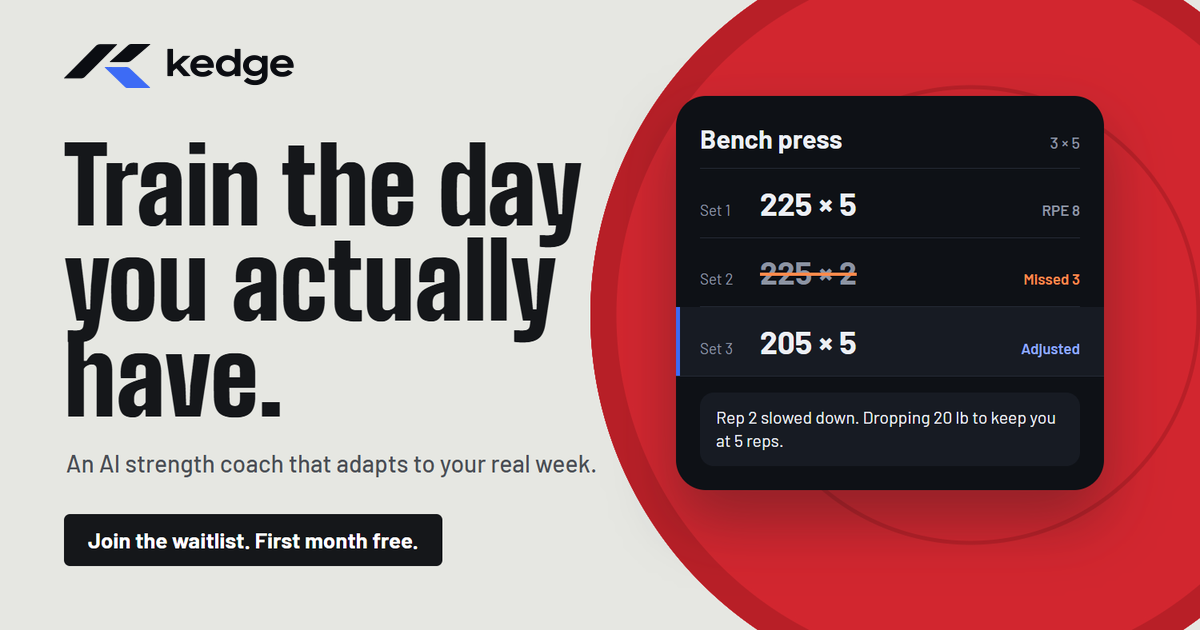
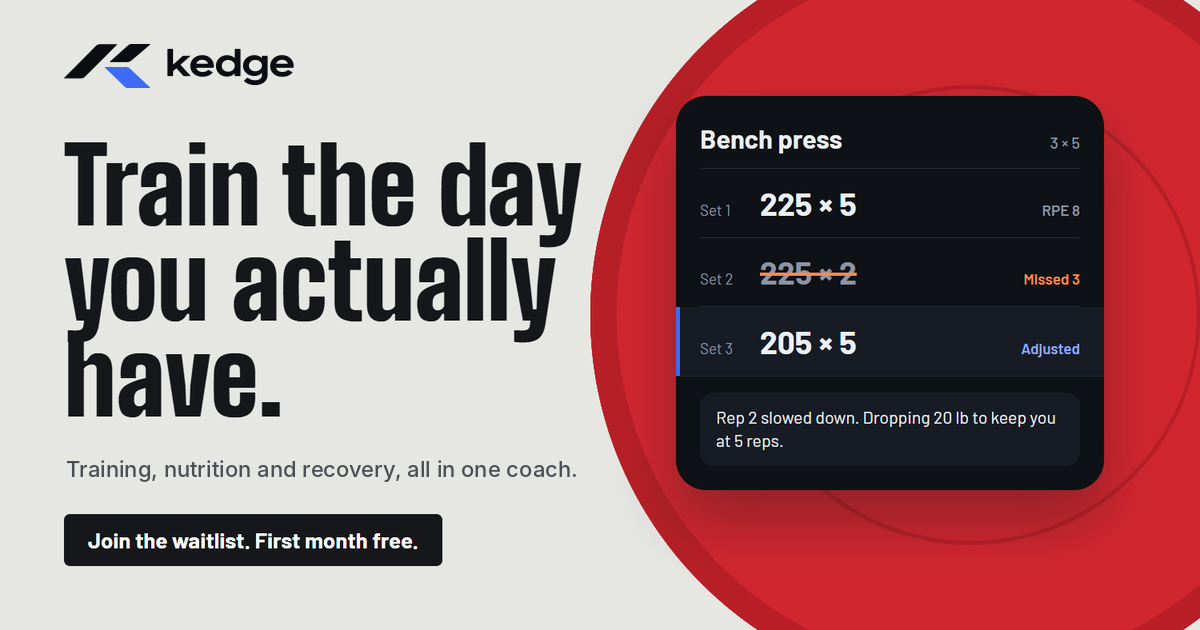
Link preview: drop the AI line for the approved one-coach line
Claude-Session: https://claude.ai/code/session_01EUkb72grH862t5WVJzSN1Z

Changed region(s): [[0.0308, 0.7238, 0.4933, 0.754]]

diff --git a/og/index.html b/og/index.html
@@ -38,7 +38,7 @@ h1 { position: absolute; left: 64px; top: 138px; width: 600px; margin: 0; font: 
     <svg viewBox="0 0 862.4 165.2" data-kedge="lockup" role="img" aria-label="kedge" class="wm" style="display:block;width:271px;height:52px"><path d="M199.4 1.3 L199.0 1.0 L198.5 0.9 L194.5 0.8 L136.3 0.8 L132.6 1.0 L129.4 1.6 L126.1 2.7 L123.6 4.0 L120.5 6.4 L115.6 11.3 L102.9 24.3 L79.5 47.9 L76.5 50.8 L41.9 85.8 L1.1 126.6 L0.2 127.8 L0.0 128.3 L0.1 128.7 L0.5 129.0 L1.1 129.1 L6.6 129.2 L64.0 129.2 L66.9 129.0 L70.1 128.2 L72.3 127.4 L75.0 126.0 L76.9 124.6 L79.0 122.7 L86.6 114.9 L105.9 95.9 L162.1 39.7 L189.8 11.8 L194.5 7.3 L198.9 2.7 L199.4 1.9Z M324.3 0.6 L324.0 0.3 L323.5 0.2 L320.4 0.0 L253.1 0.0 L251.4 0.1 L249.4 0.4 L247.4 1.0 L245.5 1.7 L243.9 2.5 L242.1 3.7 L236.8 8.3 L210.3 32.2 L178.4 60.6 L172.3 66.2 L171.8 67.0 L171.7 67.5 L172.2 67.9 L173.0 68.0 L188.8 68.0 L191.8 68.1 L227.1 68.1 L230.1 68.0 L238.1 68.0 L240.5 67.8 L243.4 67.1 L247.4 65.7 L249.8 64.4 L252.0 62.7 L267.8 49.6 L289.3 31.5 L301.3 21.1 L306.3 17.0 L311.4 12.4 L323.4 2.1 L324.2 1.3Z" fill="#0B0D12"/><path d="M152.8 87.1 L152.8 87.8 L153.7 88.9 L204.5 137.8 L219.4 152.4 L229.2 161.7 L231.6 163.6 L233.1 164.4 L235.1 165.1 L237.1 165.2 L318.5 165.2 L322.3 165.0 L322.9 164.8 L323.3 164.4 L323.3 163.8 L322.9 163.1 L319.8 159.8 L304.1 145.5 L293.9 135.6 L282.7 125.3 L274.4 117.3 L267.6 111.1 L257.8 101.6 L251.1 95.6 L246.3 91.0 L244.3 89.4 L242.6 88.5 L237.3 86.8 L235.6 86.5 L232.4 86.4 L228.5 86.5 L181.0 86.5 L178.0 86.4 L166.9 86.5 L156.9 86.4 L153.6 86.6 L153.1 86.8Z" fill="#3D6BF5"/><path d="M388.8 18.7 L388.4 19.3 L388.3 20.1 L388.3 118.7 L388.4 119.5 L388.7 120.1 L389.4 120.5 L390.4 120.7 L407.6 120.5 L408.3 120.5 L408.9 120.2 L409.2 119.6 L409.4 119.0 L409.5 116.0 L409.5 103.7 L409.6 102.9 L409.8 102.1 L410.3 101.4 L411.1 100.5 L420.2 92.5 L421.1 91.8 L422.0 91.6 L422.8 91.8 L424.0 92.9 L442.9 113.9 L447.9 119.3 L449.0 120.2 L449.8 120.5 L451.0 120.7 L473.6 120.5 L474.4 120.5 L474.9 120.3 L475.1 120.0 L475.1 119.6 L474.3 118.5 L469.2 112.8 L463.0 106.2 L450.7 92.7 L438.8 79.4 L438.2 78.6 L438.0 77.9 L438.3 77.1 L439.3 76.0 L457.9 59.6 L473.5 46.1 L474.2 45.2 L474.3 44.9 L474.2 44.6 L473.9 44.4 L473.4 44.3 L469.2 44.2 L466.8 44.3 L448.2 44.3 L447.3 44.4 L446.5 44.6 L445.5 45.2 L411.8 75.6 L411.0 76.1 L410.5 76.3 L410.2 76.2 L410.0 76.1 L409.7 75.7 L409.6 74.7 L409.5 67.7 L409.5 23.5 L409.4 19.9 L409.3 19.3 L409.0 18.9 L408.6 18.5 L408.0 18.3 L407.2 18.3 L390.4 18.3 L389.5 18.3Z M499.1 45.8 L494.7 48.0 L490.3 50.7 L487.6 52.9 L484.2 56.3 L481.4 59.8 L479.3 63.2 L477.4 67.0 L476.3 69.7 L475.7 71.5 L475.0 75.0 L474.4 79.2 L474.3 81.1 L474.3 84.9 L475.1 91.0 L476.1 94.9 L478.0 99.6 L479.8 103.0 L482.4 106.8 L484.5 109.2 L488.5 112.9 L491.7 115.2 L495.7 117.6 L500.6 119.8 L504.8 121.1 L508.7 122.0 L514.0 122.8 L517.7 123.0 L525.2 122.9 L531.0 122.2 L535.7 121.2 L539.9 119.9 L544.2 118.1 L547.9 116.2 L551.4 113.8 L553.5 112.0 L557.6 108.0 L558.3 107.1 L558.3 106.7 L558.2 106.3 L557.7 105.7 L556.9 105.2 L542.9 97.6 L542.1 97.4 L541.2 97.6 L538.0 99.9 L535.6 101.4 L532.3 103.0 L528.8 104.1 L525.5 104.8 L522.5 105.1 L520.3 105.2 L515.9 104.8 L512.6 104.2 L508.8 102.9 L506.0 101.7 L503.5 100.0 L501.0 97.7 L499.3 95.6 L498.5 94.4 L497.8 92.8 L497.1 91.3 L497.0 90.6 L497.3 89.8 L498.0 89.5 L502.1 89.3 L560.4 89.3 L561.3 89.2 L561.8 89.0 L562.3 88.5 L562.5 87.7 L562.6 82.4 L562.3 77.9 L561.5 73.3 L560.3 69.2 L558.2 64.1 L556.2 60.7 L554.0 57.6 L551.7 54.8 L549.6 52.7 L546.6 50.3 L543.3 48.1 L540.6 46.6 L537.1 45.1 L533.7 43.9 L530.1 43.0 L526.5 42.4 L522.4 42.0 L518.7 41.9 L513.4 42.2 L508.8 42.9 L505.5 43.7 L501.8 44.8Z M497.1 72.9 L497.2 72.1 L498.1 70.4 L499.0 69.0 L500.4 67.2 L502.5 64.9 L504.8 63.2 L508.0 61.4 L510.3 60.6 L512.3 60.0 L516.1 59.3 L517.6 59.3 L521.6 59.4 L525.0 59.9 L528.9 61.2 L530.7 62.0 L532.5 62.9 L533.9 63.9 L535.1 64.9 L536.1 65.9 L537.5 67.4 L538.4 68.7 L539.3 70.3 L540.0 71.8 L540.3 72.8 L540.3 73.3 L540.0 73.7 L539.7 73.9 L539.2 74.1 L533.8 74.2 L517.4 74.2 L514.9 74.1 L508.2 74.2 L499.4 74.2 L498.2 74.1 L497.7 73.9 L497.2 73.5Z M662.1 18.6 L661.5 18.3 L660.8 18.3 L643.1 18.3 L642.0 18.4 L641.5 18.7 L641.2 19.0 L641.0 19.5 L641.0 20.4 L641.0 48.1 L640.8 50.7 L640.7 51.2 L640.4 51.5 L640.0 51.6 L639.4 51.4 L635.5 48.7 L630.9 46.0 L628.3 44.9 L624.8 43.7 L620.9 42.8 L615.8 42.2 L612.9 42.0 L607.3 42.4 L603.0 43.0 L599.5 43.8 L597.2 44.6 L594.4 45.7 L591.2 47.3 L587.8 49.2 L585.2 51.1 L583.3 52.8 L581.4 54.7 L578.8 57.6 L576.6 60.5 L574.8 63.6 L573.3 67.2 L572.0 70.7 L571.2 74.3 L570.5 79.2 L570.4 81.1 L570.5 85.2 L571.0 89.3 L571.9 93.4 L573.2 97.2 L574.8 100.9 L577.1 104.7 L579.3 107.8 L581.9 110.6 L585.0 113.4 L587.2 115.0 L590.1 116.8 L592.4 118.0 L594.6 118.9 L597.8 120.1 L600.6 120.9 L604.0 121.6 L606.9 122.1 L611.1 122.3 L614.4 122.3 L617.4 122.1 L621.8 121.3 L625.1 120.4 L628.6 119.1 L631.6 117.6 L635.6 115.1 L639.3 112.1 L640.1 111.7 L640.4 111.8 L640.7 112.0 L640.9 112.8 L641.0 119.3 L641.4 120.0 L642.0 120.4 L642.6 120.5 L646.2 120.7 L658.7 120.7 L661.4 120.5 L661.9 120.3 L662.3 120.0 L662.6 119.5 L662.7 118.5 L662.7 20.1 L662.6 19.2Z M612.0 60.2 L614.2 59.9 L617.1 59.9 L618.9 60.0 L621.5 60.4 L623.6 60.9 L626.1 61.7 L628.5 62.7 L630.4 63.7 L632.1 64.9 L633.6 66.2 L635.3 67.7 L636.9 69.6 L638.2 71.5 L639.1 73.1 L639.9 75.2 L640.5 76.8 L641.0 79.8 L641.2 81.8 L641.1 83.6 L640.8 85.5 L640.5 87.2 L639.9 88.9 L638.6 91.8 L637.6 93.4 L636.7 94.8 L635.2 96.4 L633.4 98.0 L631.3 99.7 L629.7 100.6 L628.0 101.5 L625.4 102.5 L623.2 103.2 L620.9 103.7 L618.7 104.0 L615.3 104.0 L613.6 103.9 L610.9 103.5 L608.8 103.0 L606.1 102.1 L604.0 101.2 L602.0 100.0 L600.2 98.7 L598.7 97.2 L596.8 95.2 L595.7 93.6 L594.6 91.6 L593.7 89.5 L593.1 87.5 L592.6 85.2 L592.4 83.6 L592.3 81.4 L592.4 79.7 L592.9 77.0 L593.8 74.2 L594.7 72.0 L595.8 70.2 L597.1 68.5 L598.9 66.6 L600.5 65.1 L602.5 63.7 L605.0 62.4 L607.1 61.5 L609.2 60.8Z M763.3 44.3 L762.2 44.2 L753.8 44.2 L751.3 44.3 L745.8 44.2 L744.4 44.3 L743.8 44.7 L743.4 45.5 L743.3 50.9 L743.1 51.6 L742.8 51.8 L742.5 51.8 L741.8 51.6 L738.4 49.0 L734.2 46.4 L730.8 44.8 L727.3 43.6 L723.5 42.8 L717.6 42.1 L713.4 42.0 L708.5 42.4 L704.8 43.0 L700.7 44.1 L697.8 45.1 L693.7 46.9 L690.7 48.5 L686.8 51.2 L683.9 53.7 L681.8 55.8 L679.9 58.2 L677.8 61.1 L675.9 64.8 L674.7 67.6 L673.5 71.0 L672.8 74.6 L672.2 78.8 L672.1 82.1 L672.3 85.1 L672.8 88.7 L673.7 92.4 L674.9 95.8 L676.5 99.3 L678.2 102.1 L680.9 105.6 L683.6 108.5 L685.5 110.3 L689.0 112.9 L691.2 114.3 L694.3 115.8 L697.4 117.1 L700.5 118.1 L703.3 118.8 L707.8 119.6 L712.7 120.1 L716.4 120.1 L721.8 119.5 L724.5 119.0 L727.4 118.2 L729.2 117.6 L731.3 116.7 L734.9 114.9 L737.9 113.0 L741.8 109.9 L742.4 109.6 L742.7 109.6 L743.0 109.8 L743.2 110.6 L743.4 114.9 L743.3 116.8 L743.0 119.7 L742.1 122.8 L741.2 124.9 L739.9 127.0 L737.8 129.3 L735.5 131.3 L732.8 132.9 L730.0 134.2 L728.1 134.8 L725.1 135.5 L722.2 135.9 L717.8 136.2 L714.8 136.1 L708.2 135.3 L703.9 134.2 L701.6 133.4 L699.7 132.6 L697.0 131.2 L694.4 129.6 L690.1 126.7 L689.5 126.4 L689.0 126.4 L688.5 126.5 L687.8 126.9 L685.7 128.6 L676.2 137.5 L675.8 138.2 L675.8 138.9 L676.2 139.6 L677.2 140.6 L680.9 143.6 L685.2 146.4 L689.7 148.6 L695.1 150.8 L699.4 152.1 L705.0 153.3 L710.3 154.0 L714.5 154.3 L722.4 154.1 L725.3 153.9 L729.0 153.3 L733.9 152.2 L739.5 150.4 L744.0 148.5 L748.2 146.1 L750.2 144.7 L752.3 143.0 L754.5 141.0 L755.6 139.8 L757.1 137.9 L759.0 135.3 L760.4 132.9 L761.3 130.8 L762.4 128.0 L763.3 124.7 L763.9 121.4 L764.2 118.7 L764.4 114.9 L764.4 46.4 L764.3 45.6 L764.1 45.0 L763.8 44.6Z M707.2 62.1 L710.9 60.8 L713.1 60.3 L715.0 60.0 L719.9 59.9 L722.0 60.0 L723.8 60.3 L726.2 60.8 L727.9 61.3 L730.1 62.2 L732.2 63.2 L734.3 64.5 L735.7 65.6 L737.2 67.0 L738.6 68.5 L739.9 70.2 L740.9 71.7 L741.7 73.3 L742.5 75.5 L742.9 77.1 L743.2 78.7 L743.2 80.1 L743.2 83.4 L742.9 84.9 L742.3 86.9 L741.7 88.5 L740.8 90.3 L739.9 91.8 L738.9 93.1 L737.5 94.7 L735.9 96.1 L734.1 97.5 L732.0 98.8 L729.3 100.1 L726.9 101.0 L724.1 101.7 L722.1 102.0 L719.2 102.2 L716.3 102.1 L713.5 101.8 L711.6 101.5 L709.0 100.7 L706.3 99.6 L704.4 98.5 L702.7 97.4 L700.7 95.7 L698.9 93.9 L697.5 92.0 L696.3 89.8 L695.3 87.5 L694.6 85.2 L694.3 83.0 L694.2 80.7 L694.4 78.3 L694.9 76.0 L695.6 73.8 L696.6 71.6 L697.7 69.8 L699.2 67.9 L700.9 66.2 L702.6 64.8 L704.9 63.3Z M795.6 47.4 L791.8 49.6 L789.2 51.4 L785.3 54.9 L782.7 57.9 L779.9 61.9 L777.6 66.2 L776.2 69.8 L775.0 74.0 L774.5 77.0 L774.2 78.9 L774.1 83.3 L774.4 87.9 L775.3 92.5 L776.5 96.7 L777.3 98.9 L778.2 100.8 L779.4 103.0 L780.9 105.2 L783.5 108.5 L786.0 111.1 L789.4 114.0 L792.5 116.1 L796.5 118.3 L800.7 120.0 L804.2 121.2 L807.4 121.9 L810.3 122.5 L814.7 122.9 L822.5 123.0 L826.0 122.8 L831.2 122.1 L835.8 121.1 L840.1 119.7 L844.8 117.5 L847.7 115.8 L849.5 114.7 L851.8 113.1 L853.6 111.6 L856.5 108.7 L857.4 107.6 L857.7 106.8 L857.5 106.1 L856.7 105.5 L853.2 103.5 L842.1 97.6 L841.3 97.5 L840.5 97.7 L836.8 100.4 L833.9 102.0 L831.2 103.1 L828.3 104.1 L824.8 104.8 L821.9 105.1 L818.3 105.1 L815.6 104.8 L811.9 104.1 L808.6 103.0 L806.2 102.0 L803.6 100.3 L801.9 99.0 L800.8 97.9 L798.9 95.7 L798.1 94.4 L797.4 93.1 L796.8 91.6 L796.6 90.7 L796.8 89.9 L797.4 89.5 L801.1 89.3 L860.2 89.3 L860.9 89.2 L861.4 89.0 L861.9 88.5 L862.1 87.6 L862.3 85.5 L862.4 82.2 L861.8 76.4 L860.7 71.4 L860.0 69.1 L859.0 66.6 L857.2 62.8 L856.0 60.8 L854.5 58.6 L851.9 55.4 L849.7 53.1 L846.9 50.7 L844.6 49.1 L841.0 47.1 L838.0 45.6 L835.0 44.5 L831.8 43.5 L828.3 42.8 L823.0 42.1 L819.4 41.9 L815.6 42.0 L811.5 42.4 L807.8 43.0 L803.0 44.3 L798.5 45.9Z M796.7 72.9 L796.9 72.1 L797.9 70.4 L798.7 69.0 L800.0 67.4 L801.3 66.0 L802.6 64.7 L805.3 62.8 L808.7 61.1 L811.5 60.2 L814.3 59.6 L818.7 59.3 L822.4 59.5 L825.9 60.2 L829.2 61.3 L830.8 62.1 L832.4 63.0 L833.7 63.9 L834.9 64.9 L836.3 66.3 L837.5 67.7 L838.5 69.2 L839.3 70.6 L840.0 72.0 L840.2 72.8 L840.1 73.4 L839.8 73.7 L839.4 74.0 L838.8 74.1 L829.0 74.2 L798.5 74.2 L797.7 74.1 L797.2 73.9 L796.8 73.6Z" fill="#0B0D12" fill-rule="evenodd"/></svg>
 </div>
   <h1>Train the day you actually have.</h1>
-  <p class="sub">An AI strength coach that adapts to your real week.</p>
+  <p class="sub">Training, nutrition and recovery, all in one coach.</p>
   <div class="pill">Join the waitlist. First month free.</div>
   <div class="phone">
     <div class="title">Bench press <span>3 × 5</span></div>

diff --git a/index.html b/index.html
@@ -14,14 +14,14 @@
 <meta property="og:url" content="https://kedge.fit/">
 <meta property="og:title" content="Kedge: Your Training Partner">
 <meta property="og:description" content="Your program, nutrition and form coaching in one app that adapts to your real week. Join the waitlist and get your first month free.">
-<meta property="og:image" content="https://kedge.fit/og.png?v=6">
+<meta property="og:image" content="https://kedge.fit/og.png?v=7">
 <meta property="og:image:width" content="1200">
 <meta property="og:image:height" content="630">
 <meta property="og:image:alt" content="Kedge: Train the day you actually have. A bench press set adjusting from 225 to 205 after missed reps.">
 <meta name="twitter:card" content="summary_large_image">
 <meta name="twitter:title" content="Kedge: Your Training Partner">
 <meta name="twitter:description" content="Your program, nutrition and form coaching in one app that adapts to your real week. Join the waitlist and get your first month free.">
-<meta name="twitter:image" content="https://kedge.fit/og.png?v=6">
+<meta name="twitter:image" content="https://kedge.fit/og.png?v=7">
 <!--ROBOTS-->
 <link rel="preconnect" href="https://fonts.googleapis.com">
 <link rel="preconnect" href="https://fonts.gstatic.com" crossorigin>

diff --git a/src/template.html b/src/template.html
@@ -14,14 +14,14 @@
 <meta property="og:url" content="https://kedge.fit/">
 <meta property="og:title" content="Kedge: Your Training Partner">
 <meta property="og:description" content="Your program, nutrition and form coaching in one app that adapts to your real week. Join the waitlist and get your first month free.">
-<meta property="og:image" content="https://kedge.fit/og.png?v=6">
+<meta property="og:image" content="https://kedge.fit/og.png?v=7">
 <meta property="og:image:width" content="1200">
 <meta property="og:image:height" content="630">
 <meta property="og:image:alt" content="Kedge: Train the day you actually have. A bench press set adjusting from 225 to 205 after missed reps.">
 <meta name="twitter:card" content="summary_large_image">
 <meta name="twitter:title" content="Kedge: Your Training Partner">
 <meta name="twitter:description" content="Your program, nutrition and form coaching in one app that adapts to your real week. Join the waitlist and get your first month free.">
-<meta name="twitter:image" content="https://kedge.fit/og.png?v=6">
+<meta name="twitter:image" content="https://kedge.fit/og.png?v=7">
 <!--ROBOTS-->
 <link rel="preconnect" href="https://fonts.googleapis.com">
 <link rel="preconnect" href="https://fonts.gstatic.com" crossorigin>

diff --git a/beta/index.html b/beta/index.html
@@ -14,7 +14,7 @@
 <meta property="og:url" content="https://kedge.fit/beta/">
 <meta property="og:title" content="Help test Kedge before it launches">
 <meta property="og:description" content="A strength coach for iPhone that rewrites your workout around the day you actually have. Join the beta.">
-<meta property="og:image" content="https://kedge.fit/og.png?v=6">
+<meta property="og:image" content="https://kedge.fit/og.png?v=7">
 <meta name="twitter:card" content="summary_large_image">
 <link rel="preconnect" href="https://fonts.googleapis.com">
 <link rel="preconnect" href="https://fonts.gstatic.com" crossorigin>

diff --git a/ambassadors/index.html b/ambassadors/index.html
@@ -13,7 +13,7 @@
 <meta property="og:url" content="https://kedge.fit/ambassadors/">
 <meta property="og:title" content="Your people. Your code. Your cut.">
 <meta property="og:description" content="Your followers get their first month free. You earn up to $45 for each one who stays.">
-<meta property="og:image" content="https://kedge.fit/og.png?v=6">
+<meta property="og:image" content="https://kedge.fit/og.png?v=7">
 <meta name="twitter:card" content="summary_large_image">
 <link rel="preconnect" href="https://fonts.googleapis.com">
 <link rel="preconnect" href="https://fonts.gstatic.com" crossorigin>
